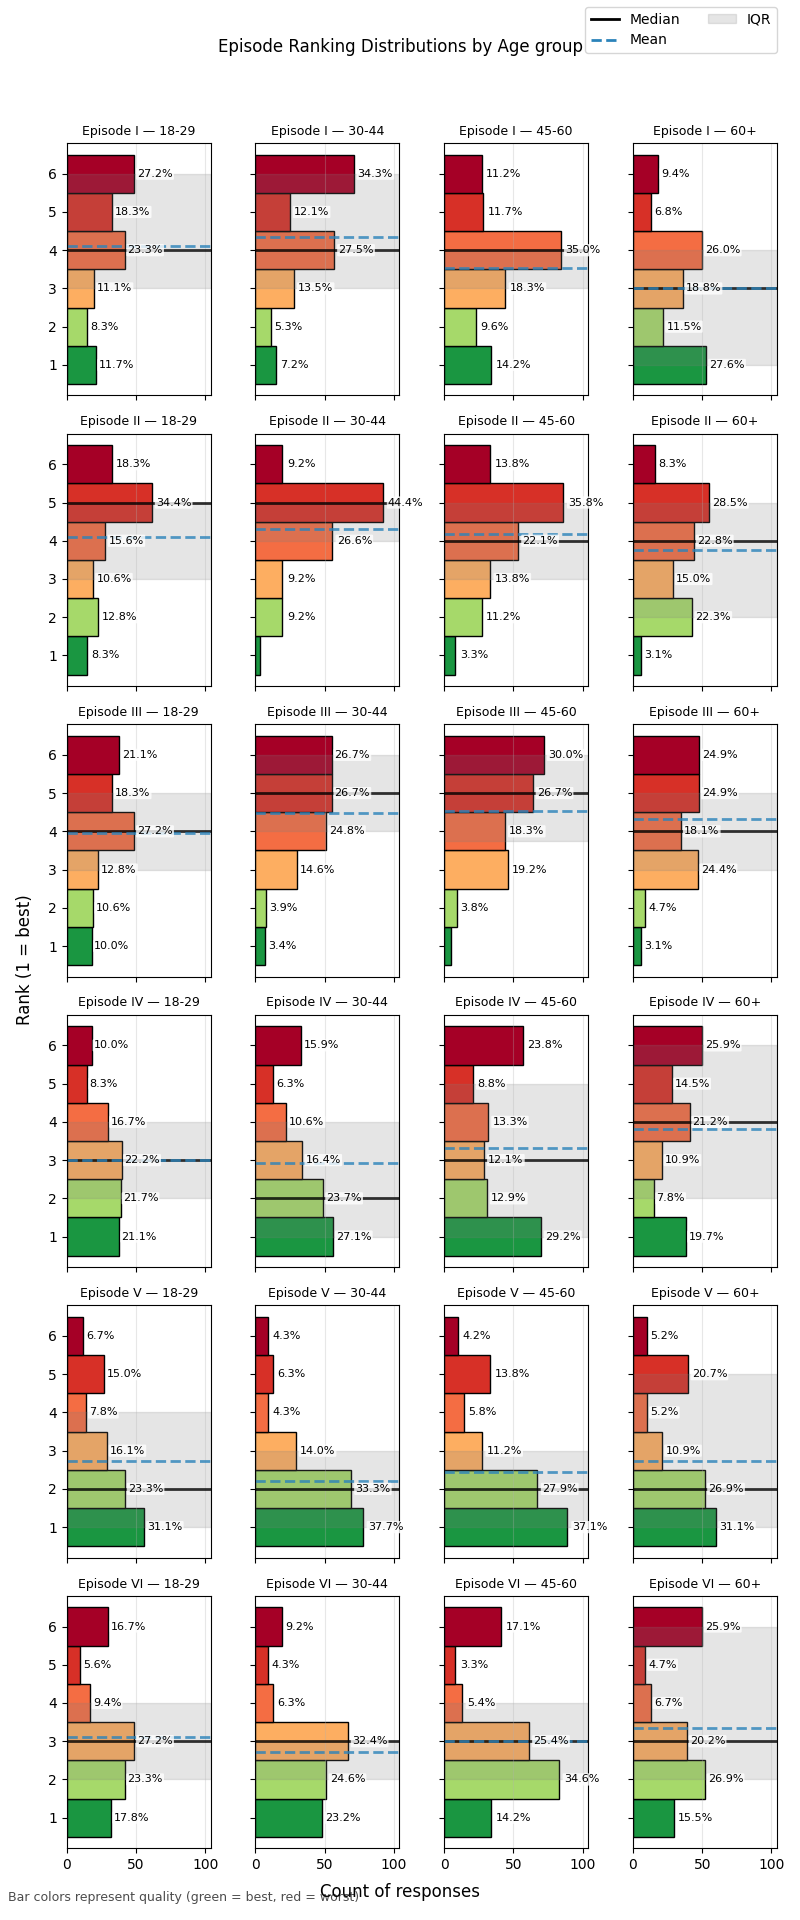
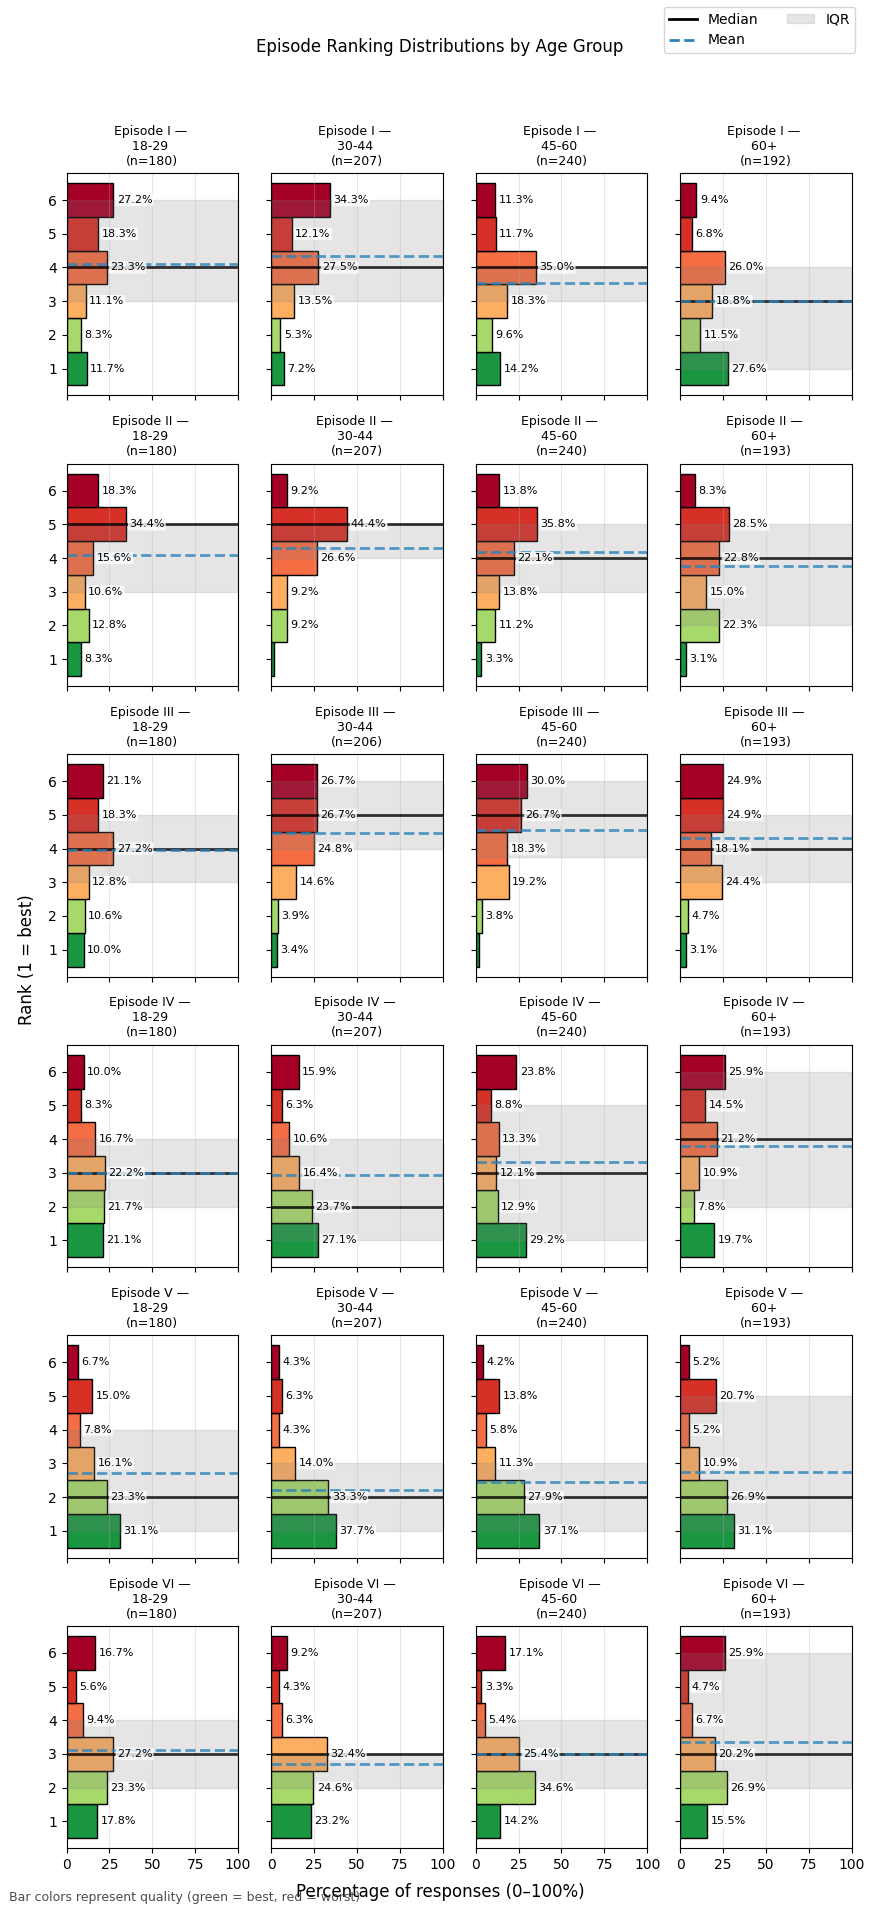
Phase 2.3.4, episode_ranking vs education_level, updated episode_ranking_age_group.png, episode_ranking_gender.png, episode_ranking_household_income.png, phase_2_eda.md

diff --git a/reports/phase_2_eda.md b/reports/phase_2_eda.md
@@ -710,3 +710,121 @@ We will formally evaluate this ordering in Section 2.3.6 once all demographic sl
 
 ---
 
+# 2.3.4 Episode Ranking Distributions by Education Level
+
+**Figure 2.3.4.a** presents episode ranking distributions across education levels:
+
+* Less than High School
+* High School
+* Some College / Associate
+* Bachelor’s
+* Graduate
+
+Percentages are computed within each episode × education group.
+
+*Note:* The “Less than HS” category contains only **n = 3** respondents. It is displayed for completeness but excluded from substantive interpretation due to insufficient sample size.
+
+![episode_ranking_education_level.png](../analysis/figures/episode_ranking_education_level.png)
+
+---
+
+## 1. Structural Stability Across Education Levels
+
+Excluding the “Less than HS” group (n=3), the overall episode hierarchy remains stable:
+
+* **Episode V** is the dominant entry across all education levels.
+* **Episode IV** consistently ranks near the top.
+* **Episode II** clusters toward ranks 5–6.
+* The original trilogy outperforms the prequel trilogy in every education category.
+
+Unlike age, education does not reorder the global ranking structure.
+
+---
+
+## 2. Episode V: Slight Strengthening with Higher Education
+
+Rank 1 share by education:
+
+* High School: 25.4%
+* Some College: 33.9%
+* Bachelor’s: 37.8%
+* Graduate: 34.1%
+
+Top-two concentration increases modestly among Bachelor’s and Graduate respondents.
+
+The effect appears incremental rather than structural: Episode V is widely preferred across all education levels.
+
+---
+
+## 3. Episode II: Rejection More Concentrated Among Higher Education
+
+Rank 5 share:
+
+* High School: 29.6%
+* Some College: 28.7%
+* Bachelor’s: 42.4%
+* Graduate: 38.5%
+
+Higher-education respondents exhibit stronger clustering at rank 5.
+
+Rank 6 also increases modestly among Bachelor’s and Graduate groups.
+
+This suggests somewhat sharper negative positioning among more educated cohorts.
+
+---
+
+## 4. Episode III: Mild Downward Shift with Higher Education
+
+Rank 6 share:
+
+* High School: 18.3%
+* Some College: 20.5%
+* Bachelor’s: 31.4%
+* Graduate: 28.3%
+
+Bachelor’s and Graduate groups show heavier lower-rank concentration relative to High School respondents.
+
+However, the episode does not become dominant in any group, nor does it radically shift in ordering.
+
+---
+
+## 5. Episode IV and VI: Broad Cross-Education Appeal
+
+### Episode IV
+
+Rank 1 share:
+
+* High School: 22.5%
+* Some College: 17.3%
+* Bachelor’s: 29.0%
+* Graduate: 28.8%
+
+Upper education groups show somewhat stronger top-ranking concentration, but mid-rank dispersion remains present.
+
+---
+
+### Episode VI
+
+Displays consistent clustering around ranks 2–3 across all education levels.
+
+No strong education-based polarization is observed.
+
+---
+
+## 6. Comparative Interpretation
+
+Relative to previously examined demographics:
+
+* Education produces visible but moderate shifts in intensity.
+* There is no major reordering of episode hierarchy.
+* Effects resemble those observed for income.
+
+Tentative segmentation strength ranking so far:
+
+> Age > Gender > (Income ≈ Education)
+
+We will formalize this comparison in Section 2.3.6 after completing the regional slice.
+
+---
+
+
